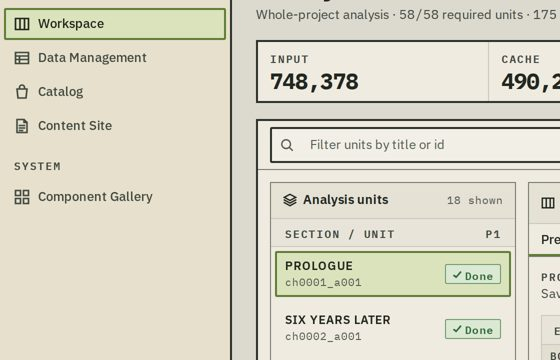
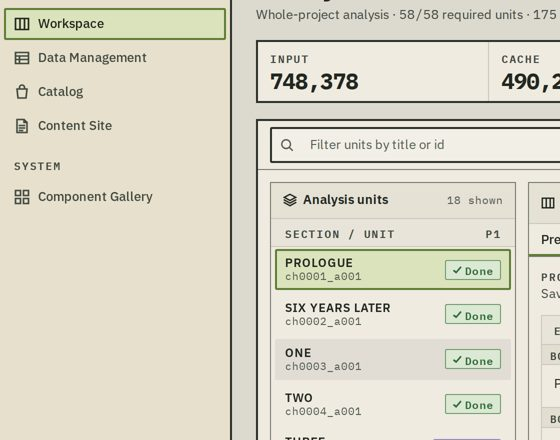
fix: selectable list rows follow the side nav — no separators, tighter
54px rows made the gaps between items far too large; a single-line row
does not fit the column (216px available, 278px needed at 1440px).
Selectable rows (.tm-row--interactive) now behave like nav items: no
separator lines, hover/selection blocks 2px from the row edge (4px
between neighbouring blocks) with 4px to the content, and tighter
two-line leading in the unit list. Row height 54 -> 45px; static lists
keep their separators.

Claude-Session: https://claude.ai/code/session_01WpekTqbxR8EZvqYNeeGVyi

diff --git a/src/the-mechanics/components.css b/src/the-mechanics/components.css
@@ -548,13 +548,18 @@
     border-top: 0;
     cursor: pointer;
   }
+  /* Selectable rows behave like nav items: no separator lines between them;
+     the hover/selection blocks separate the items. */
+  .tm-row--interactive {
+    border-bottom-color: transparent;
+  }
   /* Hover = the same inset block as selection (fill only, no frame), exactly
      like nav items; a selected row keeps its selection block on hover. */
   .tm-row--interactive:hover::before,
   .tm-row--interactive.is-hover::before {
     content: "";
     position: absolute;
-    inset: var(--tm-select-inset);
+    inset: var(--tm-select-inset-y) var(--tm-select-inset);
     z-index: -1;
     border: var(--tm-bw-control) solid transparent;
     border-radius: var(--tm-radius-control);
@@ -572,7 +577,7 @@
   .tm-row.is-selected::before {
     content: "";
     position: absolute;
-    inset: var(--tm-select-inset);
+    inset: var(--tm-select-inset-y) var(--tm-select-inset);
     z-index: -1;
     border: var(--tm-bw-control) solid var(--tm-select-line);
     border-radius: var(--tm-radius-control);

diff --git a/src/playground/app.css b/src/playground/app.css
@@ -160,8 +160,8 @@ html {
 }
 .pg-unit { gap: var(--tm-space-2); }
 .pg-unit__text { display: grid; flex: 1; min-width: 0; }
-.pg-unit__name { font-weight: var(--tm-weight-semibold); font-size: var(--tm-text-xs); letter-spacing: var(--tm-tracking-wide); overflow-wrap: anywhere; }
-.pg-unit__id { font-family: var(--tm-font-mono); font-size: var(--tm-text-2xs); color: var(--tm-text-3); }
+.pg-unit__name { font-weight: var(--tm-weight-semibold); font-size: var(--tm-text-xs); letter-spacing: var(--tm-tracking-wide); line-height: 1.25; overflow-wrap: anywhere; }
+.pg-unit__id { font-family: var(--tm-font-mono); font-size: var(--tm-text-2xs); line-height: 1.25; color: var(--tm-text-3); }
 .pg-unit__prog { width: 2.5rem; }
 .pg-icon-row { display: flex; gap: 2px; }
 .pg-preview-intro { display: grid; gap: 2px; margin-bottom: var(--tm-space-3); }

diff --git a/src/the-mechanics/tokens.css b/src/the-mechanics/tokens.css
@@ -78,9 +78,11 @@
     --tm-select-inset: 4px;
     --tm-select-pad: 8px;
     --tm-select-text: calc(var(--tm-select-inset) + var(--tm-bw-control) + var(--tm-select-pad));
-    /* vertical: frame → 5px → text (matches a 32px nav item with one text line) */
-    --tm-select-pad-y: 5px;
-    --tm-select-text-y: calc(var(--tm-select-inset) + var(--tm-bw-control) + var(--tm-select-pad-y));
+    /* vertical: like the side nav — blocks 2px from the row edge (4px between
+       neighbouring blocks, no separator lines), 4px from frame to content */
+    --tm-select-inset-y: 2px;
+    --tm-select-pad-y: 4px;
+    --tm-select-text-y: calc(var(--tm-select-inset-y) + var(--tm-bw-control) + var(--tm-select-pad-y));
 
     /* Control sizing */
     --tm-control-sm: 1.75rem;  /* 28 */

diff --git a/DESIGN.md b/DESIGN.md
@@ -15,7 +15,7 @@ Source of truth for values: `src/the-mechanics/tokens.css` (geometry, type, spac
 3. **Color means something.** Accent = primary action / selection. Status hues = state. Chart hues = series identity. Decoration uses neutrals.
 4. **Never color alone.** Every status badge has a marker shape; series have dash patterns or marker styles; selection adds a 3–4 px bar; invalid fields add an inset bar and an error message.
 5. **Themes change paint, never geometry.** Verified by the smoke test: page dimensions are identical in all three themes on all six pages.
-6. **No side accent bars.** Elements never get a thick colored bar on their left edge (no `border-left` accents, no inset-shadow bars). State is shown by fill, a thin straight frame and typography: errors = 1px border in the error color + message; selected list rows and the active navigation item = one inset block with identical geometry (`--tm-select-inset` 4px gap from the container edge or row separator on all sides → 2px selection frame → `--tm-select-pad` 8px horizontally / `--tm-select-pad-y` 5px vertically → content; unselected items reserve the same space, so nothing moves on selection), so it never stacks with the panel frame; hover uses the same block with fill only, and a selected item shows only its selection block on hover (tables: fill + checked checkbox); alerts, toasts, code blocks = uniform 1px border. Allowed exceptions: the blockquote rule and the table-of-contents position indicator; the horizontal underline of frameless tabs.
+6. **No side accent bars.** Elements never get a thick colored bar on their left edge (no `border-left` accents, no inset-shadow bars). State is shown by fill, a thin straight frame and typography: errors = 1px border in the error color + message; selected list rows and the active navigation item = one inset block with identical geometry (`--tm-select-inset` 4px gap from the container edge or row separator on all sides → 2px selection frame → `--tm-select-pad` 8px horizontally; vertically blocks sit `--tm-select-inset-y` 2px from the row edge with `--tm-select-pad-y` 4px to the content; selectable rows have no separator lines, like the side nav; unselected items reserve the same space, so nothing moves on selection), so it never stacks with the panel frame; hover uses the same block with fill only, and a selected item shows only its selection block on hover (tables: fill + checked checkbox); alerts, toasts, code blocks = uniform 1px border. Allowed exceptions: the blockquote rule and the table-of-contents position indicator; the horizontal underline of frameless tabs.
 7. **Strong controls, calm structure.** Everything you operate is drawn at full strength: inputs, selects, steppers, buttons, segmented controls, toggle chips, checkboxes, radios and switches use a 2px border in `--tm-ink` (dark ink in Light, bright text color in Dark/Coffee); checked checkboxes/radios/switches are filled with ink and carry a surface-colored mark. Structure (regions, panels, rows) keeps its own, calmer hierarchy. Control heights do not change with border width (border-box). Selected segments and chips are marked by the selection fill inside the ink frame (chips also switch to a selection-colored frame) — no underline.
 8. **One hover language.** Every clickable control signals hover by a fill tint (`--tm-hover`), never by changing its border; selection never changes font weight (widths stay constant). Only form fields darken their border on hover. Containers that are not clickable (panels, product cards, regions) do not react to hover.
 9. **Native first.** `<dialog>`, `<details>`, `popover`, real inputs and buttons. This keeps the CSS portable to any framework or server-rendered stack.

diff --git a/docs/verification/testing-report.md b/docs/verification/testing-report.md
@@ -55,6 +55,7 @@ Round 3 (owner review):
 38. Owner: in the Content Site hierarchy figure the Level 2 panel frame looked thinner beside its header band (header fill painted over the inner half of the stroke; same for the Level 1 band) → SVG paint order fixed: fills, then dividers, then frames last. Verified at 3× zoom.
 39. Owner: the selected list row was vertically cramped versus the nav item; measured text −1px into the frame (overlapping) and the frame 3px from separators → vertical selection geometry tokens (`--tm-select-pad-y` 5px, frame 4px from the row edges). Measured after: frame 4px from separators, text 5px from the frame (nav 4.9px), list row height 40 → 54px (trade-off accepted for legibility).
 40. Owner: hovering a list row painted a full-bleed gray band, so a hovered selected row showed the green block inside a gray band; nav items use one inset block for both states → list-row hover is now the same inset block (fill only, transparent frame), and a selected row shows only its selection block on hover. Measured: hover block 4px inset; selected+hover = selection colors only.
+41. Owner: 54px rows made the spacing between items far too large; a one-line row does not fit (216px available vs 278px needed at 1440px) → selectable rows follow the side nav: no separator lines, blocks 2px from the row edge (4px between neighbouring blocks), 4px frame-to-text, tighter two-line leading. Measured: row 45px, text 4px from the frame.
 
 ### Interaction / keyboard checks — `pnpm smoke` (all pass, [`smoke-results.json`](smoke-results.json))
 Desktop 1440×900, Chromium:
